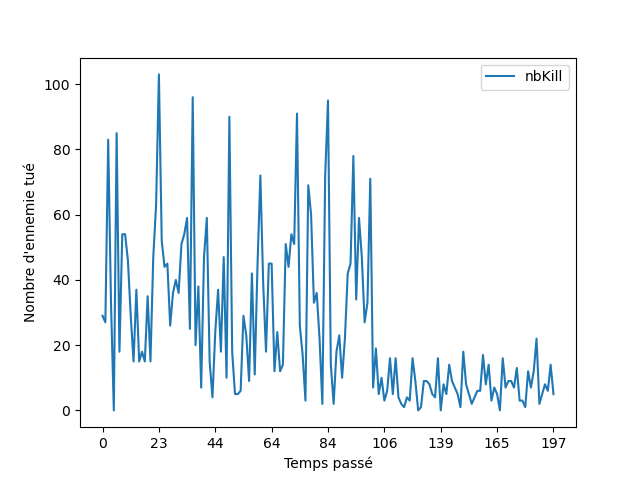
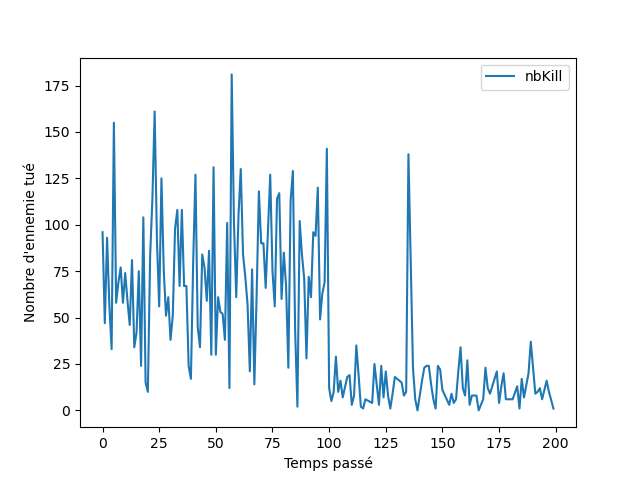
update for request

diff --git a/Apps/Reporting/function.py b/Apps/Reporting/function.py
@@ -2,7 +2,14 @@ import mysql.connector
 import pandas as pd
 import numpy as np
 import matplotlib.pyplot as plt
+import requests
 from pandas import DataFrame
+
+
+def generateDf():
+    r = requests.get('https://b4xcv1e397.execute-api.eu-west-3.amazonaws.com/dev/partie')
+    x = pd.json_normalize(r.json())
+    return x
 
 
 def savePlotAsFile(fig, filename):
@@ -18,14 +25,14 @@ def dbConnector():
     )
 
 
-def generateDf(query):
-    db = dbConnector()
-    mycursor = db.cursor()
-    mycursor.execute(query)
-    fields_names = [i[0] for i in mycursor.description]
-    df = DataFrame(columns=fields_names)
-    result = mycursor.fetchall()
-    return dataToDf(df, result)
+# def generateDf(query):
+#     db = dbConnector()
+#     mycursor = db.cursor()
+#     mycursor.execute(query)
+#     fields_names = [i[0] for i in mycursor.description]
+#     df = DataFrame(columns=fields_names)
+#     result = mycursor.fetchall()
+#     return dataToDf(df, result)
 
 
 def dataToDf(df, result):
@@ -36,7 +43,8 @@ def dataToDf(df, result):
 
 
 def plotByTimeWinning():
-    df = generateDf("select * from partie where deathPosition = 100")
+    df = generateDf()
+    df = df.loc[(df['deathPosition']) == 100]
     elaspedDf = ((df["elapsedTime"].value_counts()).to_frame()).sort_index()
     labels = ["{0} - {1}".format(i, i + 19) for i in range(0, 200, 20)]
     c = pd.cut(elaspedDf.index, np.arange(0, 201, 20),
@@ -52,7 +60,8 @@ def plotByTimeWinning():
 
 
 def plotByDeathPosition():
-    df = generateDf("select * from partie where deathPosition !=100")
+    df = generateDf()
+    df = df.loc[df["deathPosition"] != 100]
     deathPosDf = ((df["deathPosition"].value_counts()).to_frame()).sort_index()
     labels = ["{0} - {1}".format(i, i + 9) for i in range(0, 100, 10)]
     c = pd.cut(deathPosDf.index, np.arange(0, 101, 10),
@@ -68,7 +77,8 @@ def plotByDeathPosition():
 
 
 def plotPlayersByScore():
-    df = generateDf("select * from partie where deathPosition !=100")
+    df = generateDf()
+    df = df.loc[df["deathPosition"] != 100]
     scoreDf = ((df["scoreTotal"].value_counts()).to_frame()).sort_index()
     labels = ["{0} - {1}".format(i, i + 99) for i in range(0, 2000, 100)]
     c = pd.cut(scoreDf.index, np.arange(0, 2001, 100),
@@ -82,15 +92,14 @@ def plotPlayersByScore():
 
 
 def plotKillsByTimes():
-    df = generateDf("select * from partie where deathPosition !=100")
-
+    df = generateDf()
     df.groupby("elapsedTime").sum().plot(kind='line', y='nbKill', ylabel="Nombre d'ennemie tué", xlabel='Temps passé')
     savePlotAsFile(plt.gcf(), 'resources/plotKillsByTimes')
     plt.show()
 
 
 def plotScoreByTimes():
-    df = generateDf("select * from partie where deathPosition !=100")
+    df = generateDf()
     # df.plot(kind='scatter', y='scoreTotal', x='elapsedTime')
 
     df.groupby("elapsedTime").sum().plot(kind='line', y='scoreTotal', ylabel="Score total", xlabel="Temps passé")
@@ -100,7 +109,7 @@ def plotScoreByTimes():
 
 
 def endGamePourcentage():
-    df = generateDf("select * from partie")
+    df = generateDf()
     pourcentageDf = (df["isDead"].value_counts()).to_frame()
     x = getRealValue(pourcentageDf.values)
     plt.pie(x, labels=['Niveau Fini', "Niveau non terminé"], autopct='%1.1f%%', shadow=True,

diff --git a/Apps/Reporting/main.py b/Apps/Reporting/main.py
@@ -11,3 +11,5 @@ if __name__ == '__main__':
     plotKillsByTimes()
     plotScoreByTimes()
     plotPlayersByScore()
+
+    # generateDfRequest()
